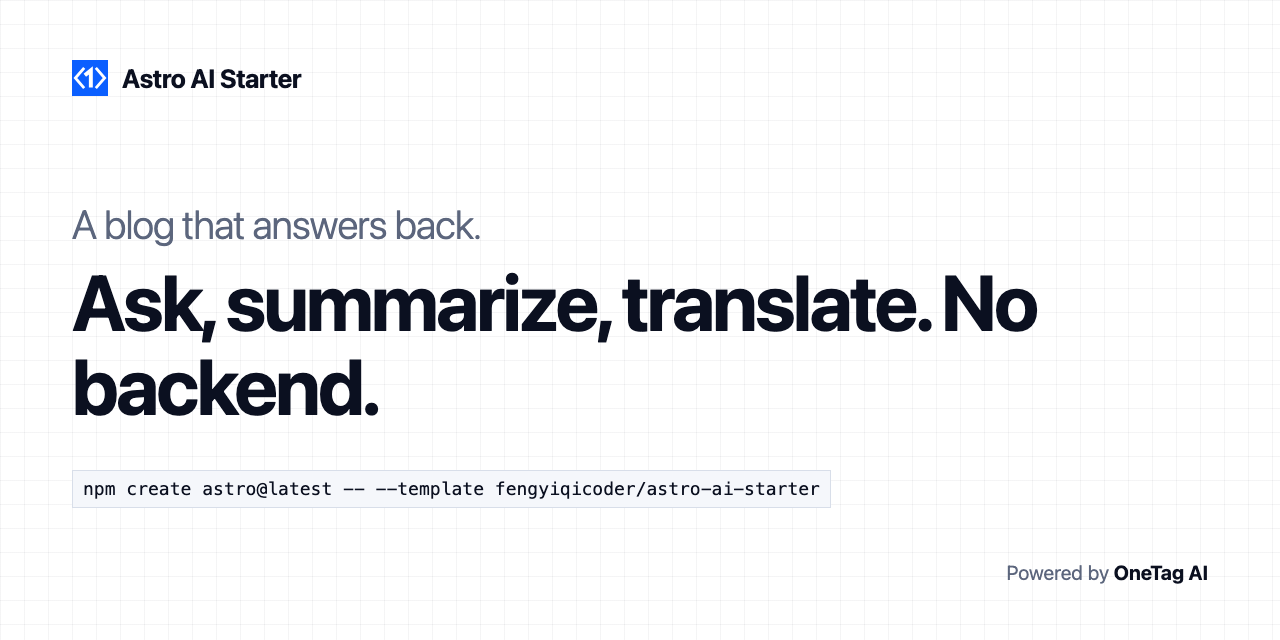
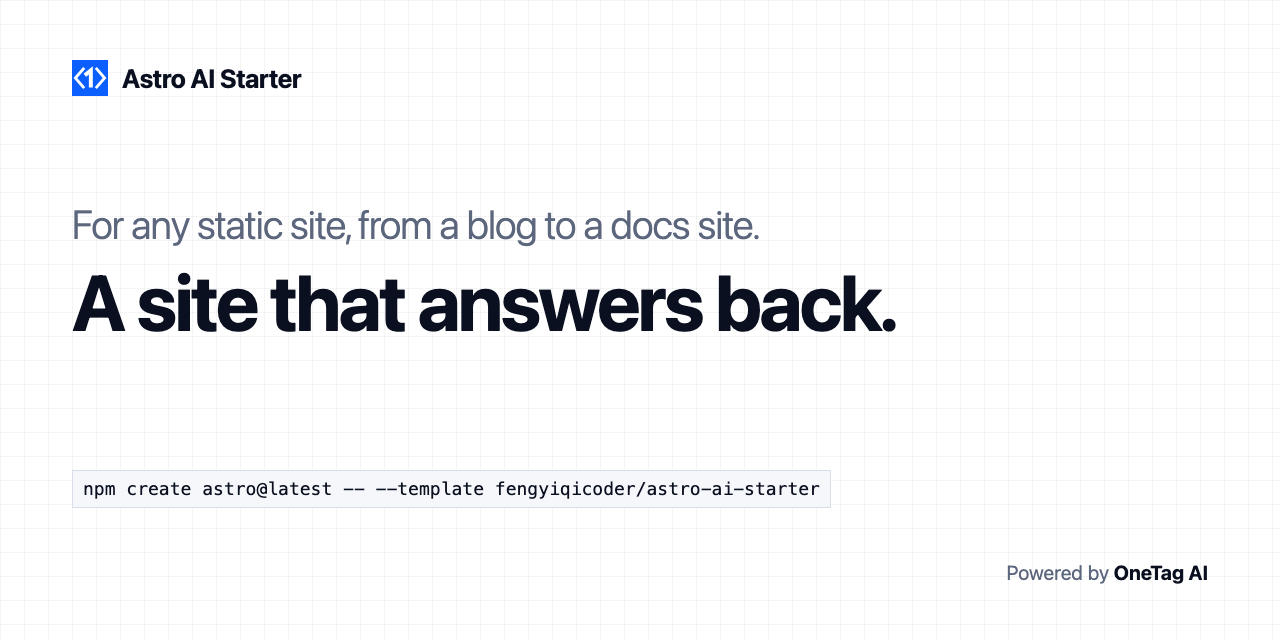
docs: universal tagline in the exemplar's format
Claude-Session: https://claude.ai/code/session_014PXmMsBBZgfrAz8PMnA4Tr

Changed region(s): [[0.0312, 0.3125, 0.8125, 0.5312], [0.0312, 0.5625, 0.3125, 0.6562]]

diff --git a/src/config.ts b/src/config.ts
@@ -1,8 +1,9 @@
 // Everything the AI features need to know about this site lives here. Change it, not the components.
 export const site = {
 	name: 'Astro AI Starter',
-	tagline: 'A blog that answers back.',
-	description: 'Astro starter with AI built in: ask the blog, TL;DR, translate, ask the author. One script tag, no backend.',
+	tagline: 'A site that answers back.',
+	scene: 'For any static site, from a blog to a docs site.',
+	description: 'Astro starter with AI built in: the site answers questions, summarizes, translates and explains itself. Blog, docs and landing page included. One script tag, no backend.',
 	url: 'https://fengyiqicoder.github.io/astro-ai-starter/',
 	repo: 'https://github.com/fengyiqicoder/astro-ai-starter',
 	language: 'en',

diff --git a/README.md b/README.md
@@ -1,10 +1,10 @@
-# Starter for Astro 7, Tailwind CSS 4 and AI features that run without a backend.
+# Starter and Boilerplate for Astro 7, Tailwind CSS 4 and TypeScript, with AI built in.
 
-<p align="center"><a href="https://fengyiqicoder.github.io/astro-ai-starter/"><img src=".github/assets/banner.png" alt="Astro AI Starter: a blog that answers back" width="100%"></a></p>
+<p align="center"><a href="https://fengyiqicoder.github.io/astro-ai-starter/"><img src=".github/assets/banner.png" alt="Astro AI Starter: a site that answers back" width="100%"></a></p>
 
-🚀 Astro blog starter with AI built in: ask the blog, TL;DR, translate in place, ask the author, read next, explain any selection or code block, all from the browser with one script tag and no server ⚡ Made with developer experience first: Astro 7 + Tailwind CSS 4 + TypeScript + MDX + Pagefind + llms.txt + AGENTS.md + GitHub Actions ✨
+🚀 Astro starter with AI built in: the site answers questions, summarizes, translates and explains itself. Blog, docs and landing page included. One script tag, no backend ⚡ Made with developer experience first: Astro 7 + Tailwind CSS 4 + TypeScript + MDX + Pagefind + llms.txt + AGENTS.md + GitHub Actions ✨
 
-Clone it and you have a blog where every post can summarize itself, translate itself and answer questions. Live demo: [fengyiqicoder.github.io/astro-ai-starter](https://fengyiqicoder.github.io/astro-ai-starter/).
+Clone it and you have a site that answers back: every page can summarize itself, translate itself and answer questions. Live demo: [fengyiqicoder.github.io/astro-ai-starter](https://fengyiqicoder.github.io/astro-ai-starter/).
 
 ```sh
 npm create astro@latest -- --template fengyiqicoder/astro-ai-starter
